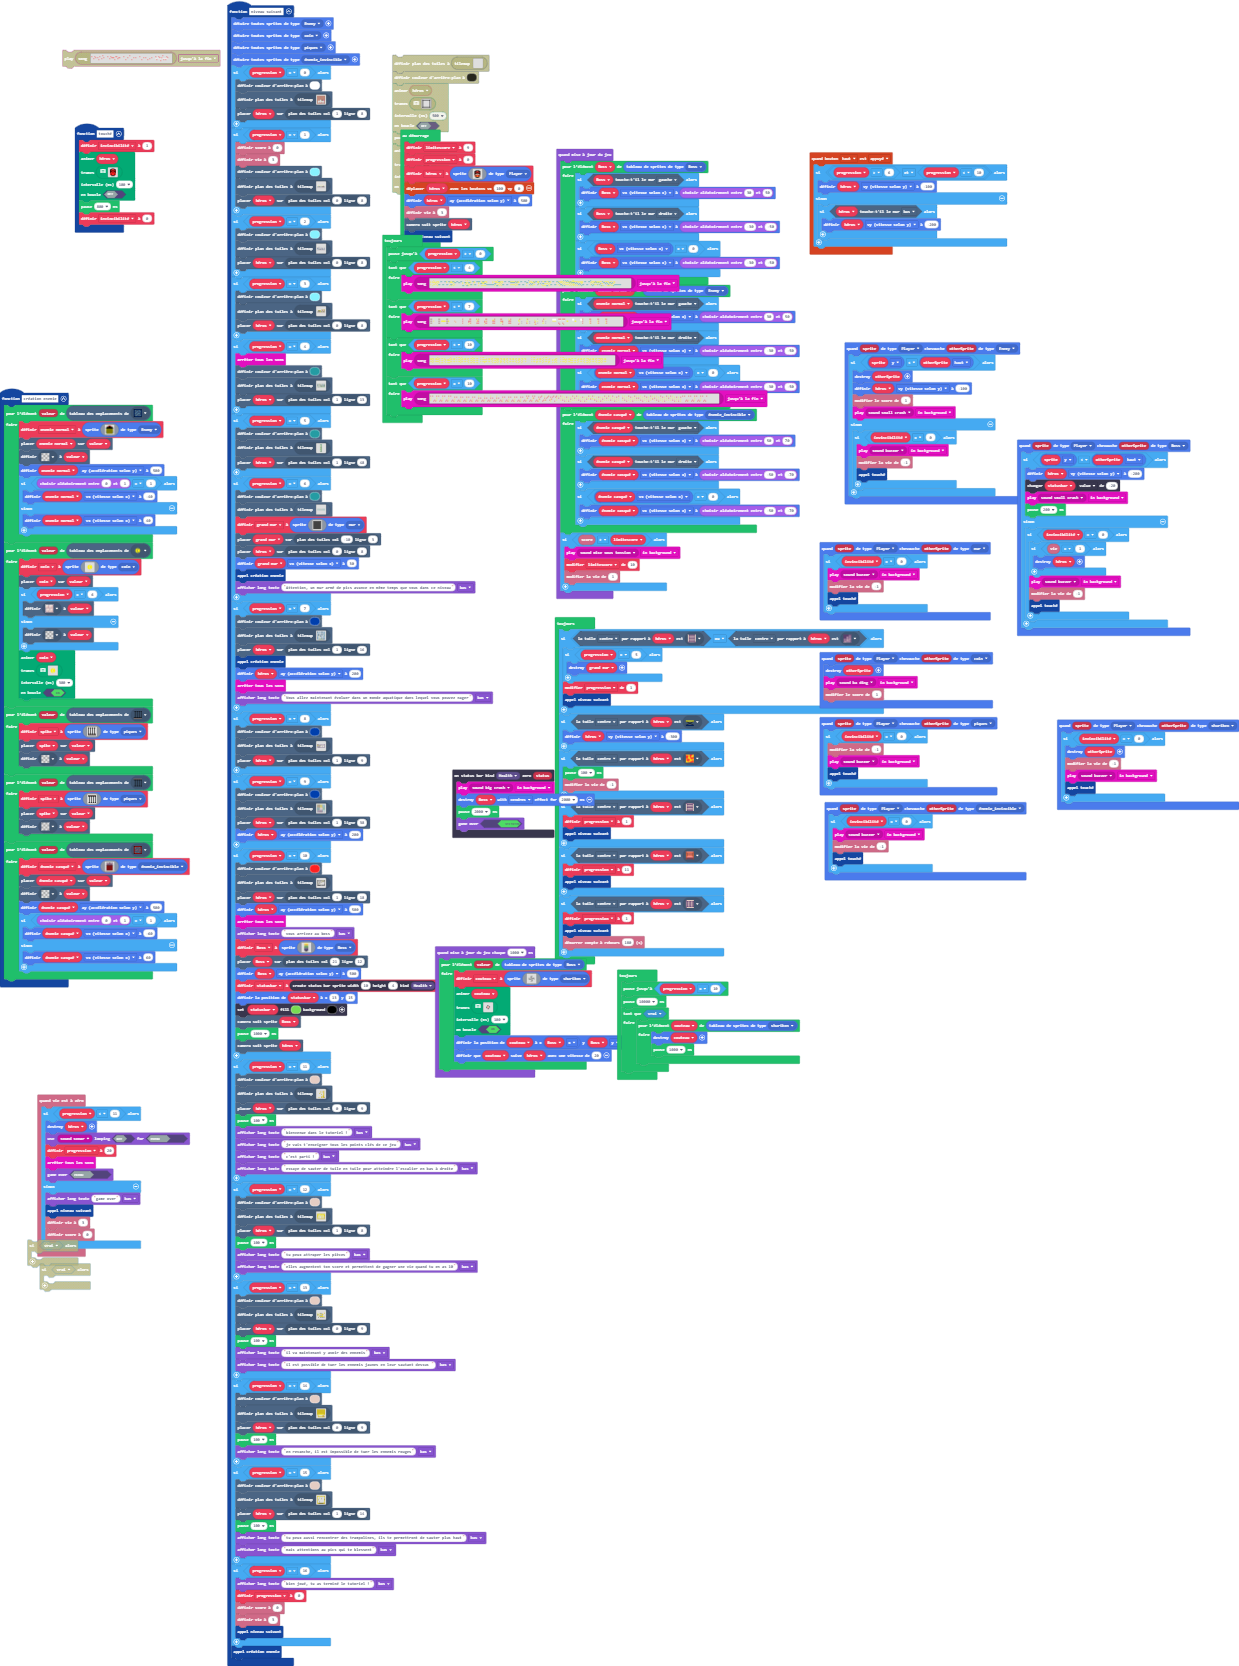
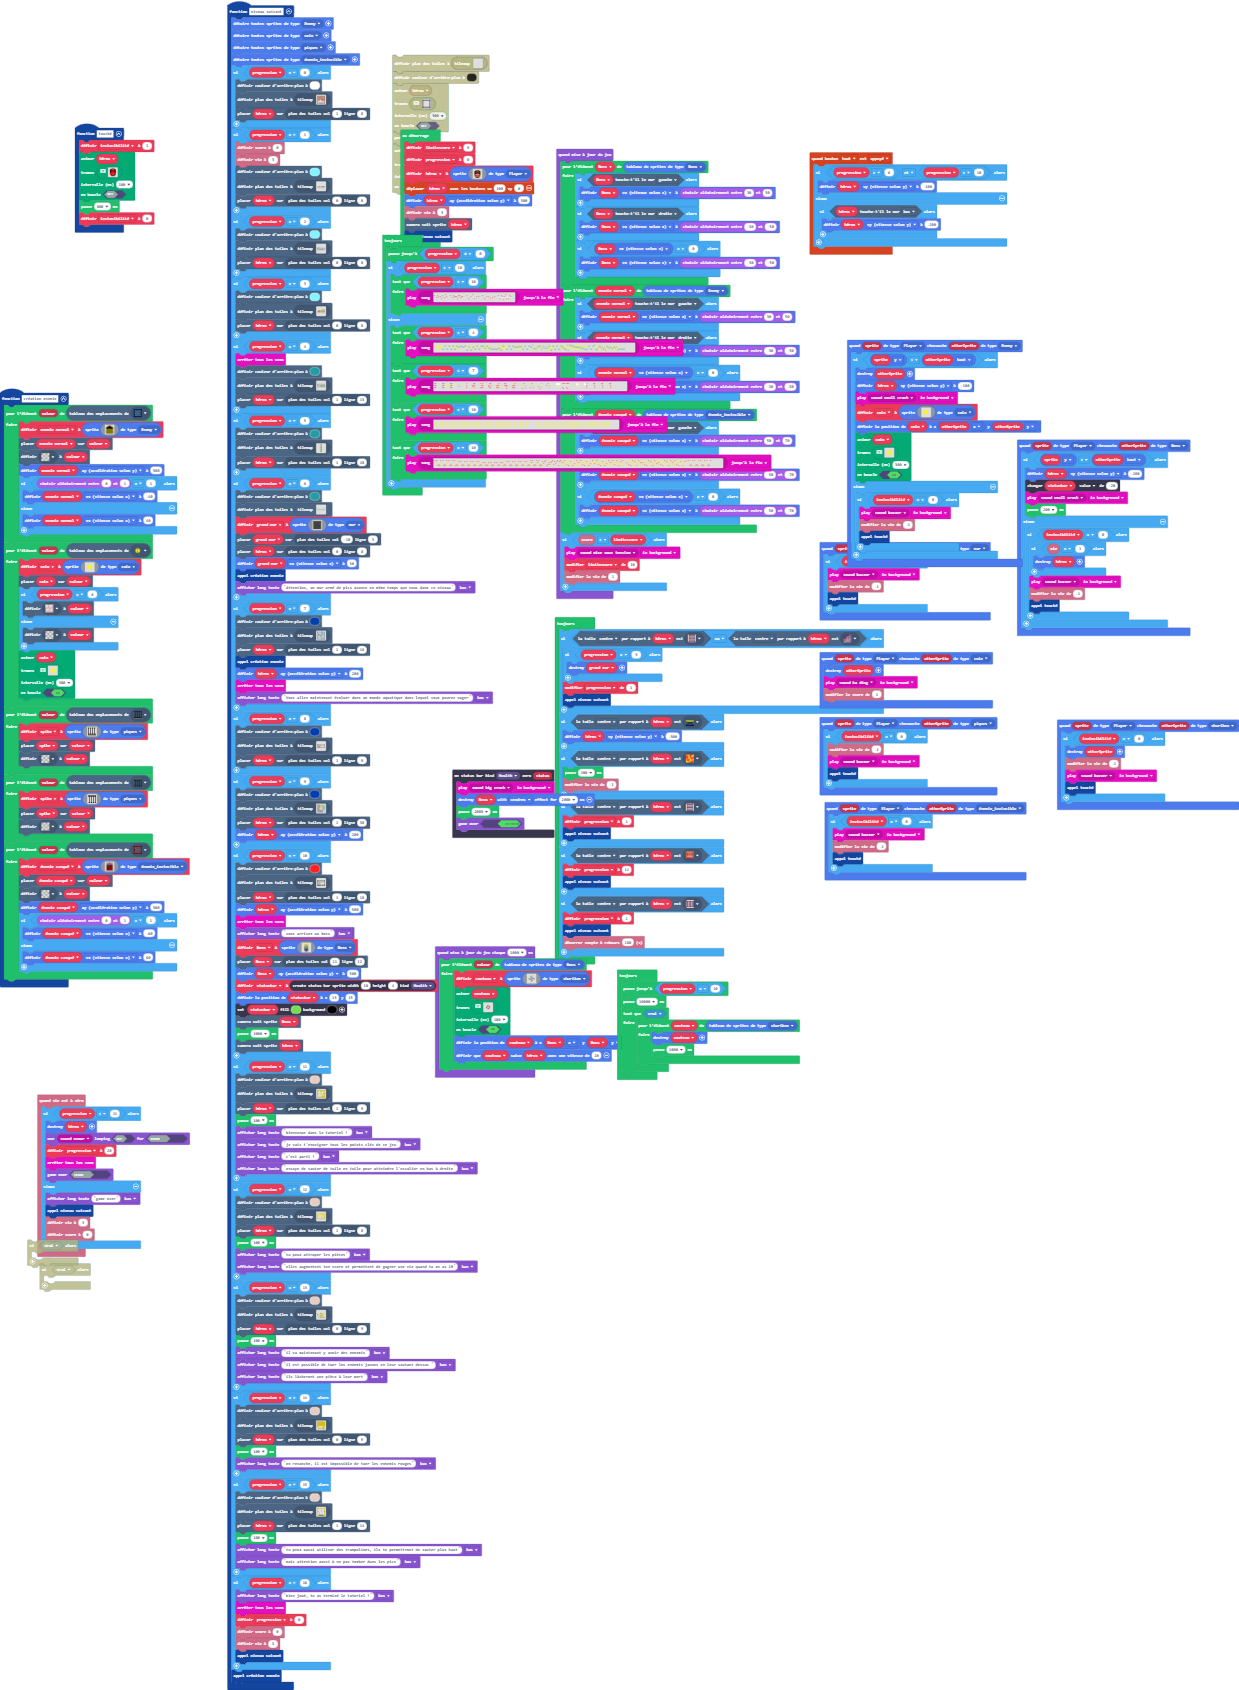
Mise à jour main.blocks, main.ts, tilemap.g.jres, tilemap.g.ts

Changed region(s): [[0.0307, 0.0, 1.0, 0.9988], [0.0, 0.2185, 0.1533, 0.593], [0.0, 0.6242, 0.1533, 0.7803]]

diff --git a/main.ts b/main.ts
@@ -814,7 +814,7 @@ function niveau_suivant () {
     if (progression == 11) {
         scene.setBackgroundColor(13)
         tiles.setCurrentTilemap(tilemap`tuto1`)
-        tiles.placeOnTile(héros, tiles.getTileLocation(0, 9))
+        tiles.placeOnTile(héros, tiles.getTileLocation(1, 9))
         pause(100)
         game.showLongText("bienvenue dans le tutoriel !", DialogLayout.Bottom)
         game.showLongText("je vais t'enseigner tous les points clés de ce jeu", DialogLayout.Bottom)
@@ -836,6 +836,7 @@ function niveau_suivant () {
         pause(100)
         game.showLongText("il va maintenant y avoir des ennemis", DialogLayout.Bottom)
         game.showLongText("il est possible de tuer les ennemis jaunes en leur sautant dessus ", DialogLayout.Bottom)
+        game.showLongText("ils lâcheront une pièce à leur mort", DialogLayout.Bottom)
     }
     if (progression == 14) {
         scene.setBackgroundColor(13)
@@ -849,11 +850,12 @@ function niveau_suivant () {
         tiles.setCurrentTilemap(tilemap`niveau18`)
         tiles.placeOnTile(héros, tiles.getTileLocation(1, 14))
         pause(100)
-        game.showLongText("tu peux aussi rencontrer des trampolines, ils te permettront de sauter plus haut", DialogLayout.Bottom)
-        game.showLongText("mais attentions au pics qui te blessent", DialogLayout.Bottom)
+        game.showLongText("tu peux aussi utiliser des trampolines, ils te permettront de sauter plus haut", DialogLayout.Bottom)
+        game.showLongText("mais attention aussi à ne pas tomber dans les pics", DialogLayout.Bottom)
     }
     if (progression == 16) {
         game.showLongText("bien joué, tu as terminé le tutoriel !", DialogLayout.Bottom)
+        music.stopAllSounds()
         progression = 0
         info.setScore(0)
         info.setLife(3)
@@ -865,8 +867,66 @@ sprites.onOverlap(SpriteKind.Player, SpriteKind.Enemy, function (sprite, otherSp
     if (sprite.y < otherSprite.top) {
         sprites.destroy(otherSprite)
         héros.vy = -100
-        info.changeScoreBy(1)
         music.play(music.melodyPlayable(music.smallCrash), music.PlaybackMode.InBackground)
+        coin = sprites.create(img`
+            . . . . . . . . . . . . . . . . 
+            . . . . . . . . . . . . . . . . 
+            . . . . . . . . . . . . . . . . 
+            . . . . . . . 5 5 . . . . . . . 
+            . . . . . 5 5 5 5 5 5 . . . . . 
+            . . . . 5 5 5 . . . 5 5 . . . . 
+            . . . . 5 5 . 5 5 5 5 5 . . . . 
+            . . . 5 5 5 . 5 5 5 5 5 5 . . . 
+            . . . 5 5 5 . 5 5 5 5 5 5 . . . 
+            . . . . 5 5 . 5 5 5 5 5 . . . . 
+            . . . . 5 5 5 . . . 5 5 . . . . 
+            . . . . . 5 5 5 5 5 5 . . . . . 
+            . . . . . . . 5 5 . . . . . . . 
+            . . . . . . . . . . . . . . . . 
+            . . . . . . . . . . . . . . . . 
+            . . . . . . . . . . . . . . . . 
+            `, SpriteKind.coin)
+        coin.setPosition(otherSprite.x, otherSprite.y)
+        animation.runImageAnimation(
+        coin,
+        [img`
+            . . . . . . . . . . . . . . . . 
+            . . . . . . . . . . . . . . . . 
+            . . . . . . . . . . . . . . . . 
+            . . . . . . . 5 5 . . . . . . . 
+            . . . . . 5 5 5 5 5 5 . . . . . 
+            . . . . 5 5 5 . . . 5 5 . . . . 
+            . . . . 5 5 . 5 5 5 5 5 . . . . 
+            . . . 5 5 5 . 5 5 5 5 5 5 . . . 
+            . . . 5 5 5 . 5 5 5 5 5 5 . . . 
+            . . . . 5 5 . 5 5 5 5 5 . . . . 
+            . . . . 5 5 5 . . . 5 5 . . . . 
+            . . . . . 5 5 5 5 5 5 . . . . . 
+            . . . . . . . 5 5 . . . . . . . 
+            . . . . . . . . . . . . . . . . 
+            . . . . . . . . . . . . . . . . 
+            . . . . . . . . . . . . . . . . 
+            `,img`
+            . . . . . . . . . . . . . . . . 
+            . . . . . . . . . . . . . . . . 
+            . . . . . . . . . . . . . . . . 
+            . . . . . . . 5 5 . . . . . . . 
+            . . . . . . . 5 5 . . . . . . . 
+            . . . . . . . 5 5 . . . . . . . 
+            . . . . . . . 5 5 . . . . . . . 
+            . . . . . . . 5 5 . . . . . . . 
+            . . . . . . . 5 5 . . . . . . . 
+            . . . . . . . 5 5 . . . . . . . 
+            . . . . . . . 5 5 . . . . . . . 
+            . . . . . . . 5 5 . . . . . . . 
+            . . . . . . . 5 5 . . . . . . . 
+            . . . . . . . . . . . . . . . . 
+            . . . . . . . . . . . . . . . . 
+            . . . . . . . . . . . . . . . . 
+            `],
+        300,
+        true
+        )
     } else {
         if (invincibilité == 0) {
             music.play(music.melodyPlayable(music.buzzer), music.PlaybackMode.InBackground)
@@ -1041,18 +1101,24 @@ game.onUpdateInterval(1000, function () {
     }
 })
 forever(function () {
-    pauseUntil(() => progression > 0)
-    while (progression < 4) {
[1 lines of base64/hex data omitted]
-    }
-    while (progression < 7) {
[1 lines of base64/hex data omitted]
-    }
-    while (progression < 10) {
[1 lines of base64/hex data omitted]
-    }
-    while (progression == 10) {
[1 lines of base64/hex data omitted]
+    pauseUntil(() => progression != 0)
+    if (progression > 10) {
+        while (progression > 10) {
[1 lines of base64/hex data omitted]
+        }
+    } else {
+        while (progression < 4) {
[1 lines of base64/hex data omitted]
+        }
+        while (progression < 7) {
[1 lines of base64/hex data omitted]
+        }
+        while (progression < 10) {
[1 lines of base64/hex data omitted]
+        }
+        while (progression == 10) {
[1 lines of base64/hex data omitted]
+        }
     }
 })
 forever(function () {

diff --git a/tilemap.g.ts b/tilemap.g.ts
@@ -681,19 +681,6 @@ namespace myTiles {
 . . . . . . . . . . . . . . . . 
 . . . . . . . . . . . . . . . . 
 `, [myTiles.transparency16], TileScale.Sixteen);
-            case "tuto1":
[1 lines of base64/hex data omitted]
-. . . . . . . . . . 
-. . . . . . . . 2 . 
-. . . . 2 . 2 . 2 . 
-. . . . . . . . 2 . 
-. . . 2 . . . . 2 . 
-. . . . . 2 . . 2 . 
-. . . . . . . . 2 . 
-. . . . . . . 2 2 . 
-. . . . . 2 . 2 2 . 
-. . 2 . . 2 . 2 2 . 
-`, [myTiles.transparency16,myTiles.tile15,sprites.dungeon.stairNorth], TileScale.Sixteen);
             case "monde0":
[1 lines of base64/hex data omitted]
 2 2 2 2 2 2 2 2 2 2 
@@ -720,19 +707,6 @@ namespace myTiles {
 2 . . . . . . . . . . . . 2 . 2 
 2 2 2 2 2 2 2 2 2 2 2 2 2 2 2 2 
 `, [myTiles.transparency16,myTiles.tile6,myTiles.tile15,sprites.dungeon.stairNorth], TileScale.Sixteen);
-            case "tuto3":
[1 lines of base64/hex data omitted]
-. . . . . . . . . . . . . . . . 
-. . . . . . . . . . . . . . . 2 
-. . . . . 2 . 2 . . 2 . . . 2 . 
-. . . . . . 2 . 2 2 2 2 . 2 . . 
-. . 2 2 . . . . . . 2 . . . . . 
-2 2 2 . . . . . . . 2 . . . . . 
-. . . . . 2 . . . . 2 . . . . . 
-. . . . . 2 2 2 2 2 2 . . . . . 
-. . . . 2 . . . . . 2 . . . 2 . 
-. . 2 . . . 2 . . . 2 . . . 2 . 
-`, [myTiles.transparency16,myTiles.tile4,myTiles.tile6,myTiles.tile15,sprites.dungeon.stairNorth], TileScale.Sixteen);
             case "tuto4":
[1 lines of base64/hex data omitted]
 . . . . . . . . . . 
@@ -945,6 +919,33 @@ namespace myTiles {
 2.2......2.2
 222222222222
 `, [myTiles.transparency16,myTiles.tile3,myTiles.tile6,myTiles.tile8,myTiles.tile9,sprites.dungeon.greenOuterNorth2,sprites.dungeon.stairNorth,sprites.dungeon.hazardLava1,myTiles.tile4,myTiles.tile2], TileScale.Sixteen);
+            case "tuto1":
[1 lines of base64/hex data omitted]
+2 2 2 2 2 2 2 2 2 2 2 
+2 . . . . . . . . . 2 
+2 . . . 2 2 2 . . . 2 
+2 . . . . . . . 2 . 2 
+2 . 2 . . . . . 2 . 2 
+2 . . . 2 2 . . 2 . 2 
+2 . . . . . . . 2 . 2 
+2 . . . . . . 2 . . 2 
+2 . . . . 2 . 2 . 2 2 
+2 . . 2 . 2 . 2 . . 2 
+2 2 2 2 2 2 2 2 2 2 2 
+`, [myTiles.transparency16,myTiles.tile15,sprites.dungeon.stairNorth], TileScale.Sixteen);
+            case "tuto3":
[1 lines of base64/hex data omitted]
+. . . . . . . . . . . . . . . . 
+. . . . . . . . . . . . . . . 2 
+. . . . . 2 . 2 . . 2 . . . 2 . 
+. . . . . . 2 . 2 2 2 2 . 2 . . 
+. . 2 2 . . . . . . 2 . . . . . 
+2 2 2 . . . . . . . 2 . . . . . 
+. . . . . 2 . . . . 2 . 2 . . . 
+. . . . . 2 2 2 2 2 2 . . . . . 
+. . . . 2 . . . . . 2 . . . 2 . 
+. . 2 . . . 2 . . . 2 . . . 2 . 
+`, [myTiles.transparency16,myTiles.tile4,myTiles.tile6,myTiles.tile15,sprites.dungeon.stairNorth], TileScale.Sixteen);
         }
         return null;
     })
